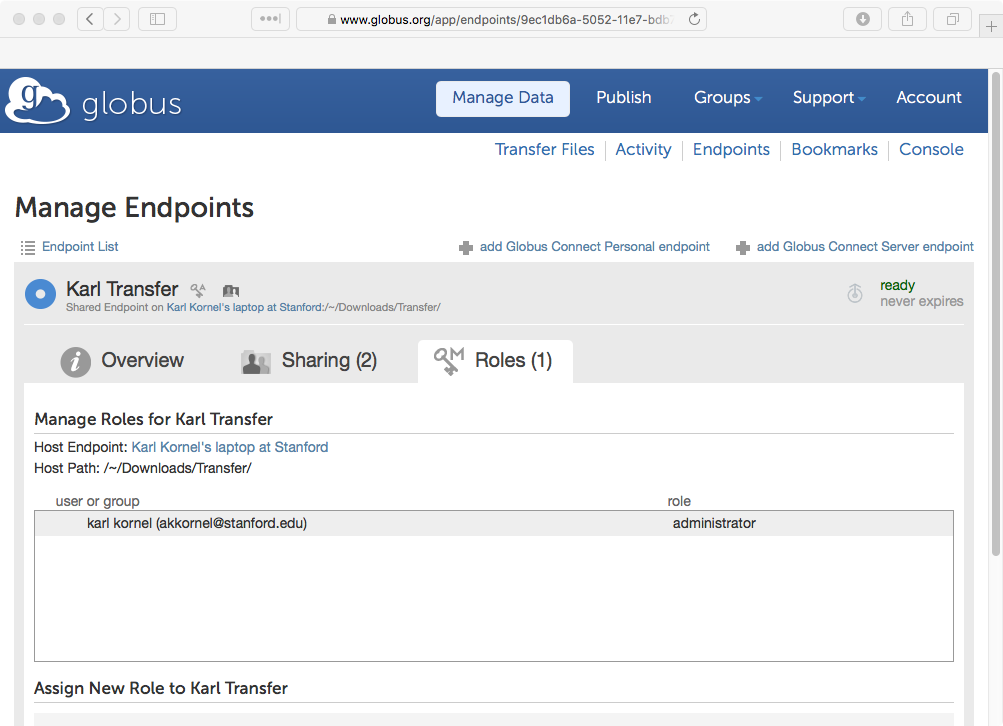
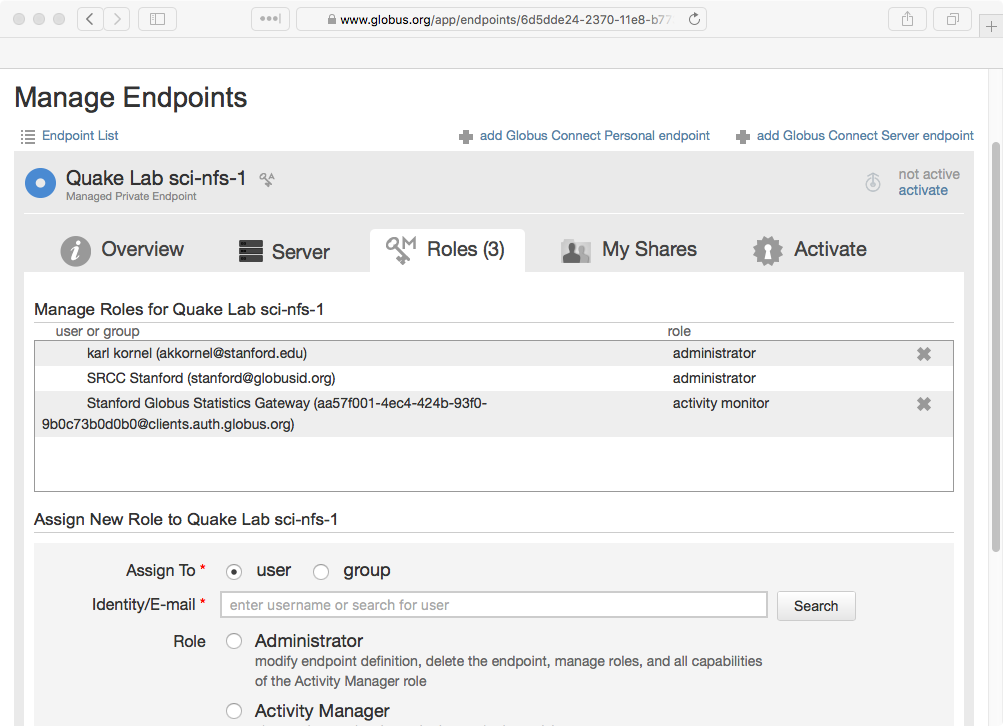
The Finish Configuration page!

diff --git a/server/finish.md b/server/finish.md
@@ -1,0 +1,300 @@
+---
+layout:      left-sidebar
+title:       Globus Connect Server Final Configuration
+title_line:  false
+description: Finish your Globus Connect Server Installation
+---
+
+# Finishing Configuration
+
+Now that Globus Connect Server is running, some final endpoint configuraion
+must be performed on the [Globus web site](https://www.globus.org/app).  
+
+{% include info-box.html
+   icon="asterisk"
+   header="Log in with the Globus ID"
+   content="Since we are performing endpoint configuration, you will need to log in using the same Globus ID and password that you used during endpoint setup.  If you are using one of the common Globus IDs, talk to the owner of the Globus ID, who will work with you to finish configuration."
+%}
+
+Log in, and go to the Endpoints page.
+
+{% include hero-image.html
+   src="assets/server/Recent Endpoints.png"
+   alt="The list of recently-used endpoints."
+   caption-overlay=true
+   caption-header="Recently-Used Endpoints"
+   caption-text=""
+%}
+
+When you reach the Endpoints page, at the top of the list of endpoints, click
+on _administered by me_.  The list of endpoints will switch to show endpoints
+administered by your Globus ID.
+
+{% include hero-image.html
+   src="assets/server/Administered Endpoints.png"
+   alt="The list of endpoints which you administer."
+   caption-overlay=true
+   caption-header="Endpoints You Administer"
+   caption-text=""
+%}
+
+Your newly-created endpoint will appear.  Click on the endpoint's name, and you
+will be taken to the Endpoint Overview page.
+
+## Endpoint Overview
+
+Click on the _Edit Attributes_ button, so that you can fill in the missing
+endpoint information.
+
+{% include hero-image.html
+   src="assets/server/Endpoint Information Editable.png"
+   alt="A list of endpoint attributes, with information already filled in."
+   caption-overlay=true
+   caption-header="Endpoint Information"
+   caption-text=""
+%}
+
+All of the fields should be filled in.  Here are some guidelines:
+
+* The _display name_ should contain a clear indication of the endpoint's
+  purpose.  In the example above, this is a file server, and so the display
+  name includes the lab name and file server name.
+
+* The _description_ should contain a more-detailed description of the
+  endpoint's purpose.
+
+* The _keywords_ should contain at least two items: `stanford`, and your lab's
+  name.
+
+* The _endpoint info link_ should contain one of the following (ranked from
+  most preferred to least preferred):
+
+  1. A link to a web page containing information on the specific endpoint, or
+     the data provided by the endpoint.
+
+  2. A link to your group's web page.
+
+  3. A link to your department or school's web page.
+
+* The _contact_ email is a mailing list for your lab, or the email address of
+  someone responsible for the endpoint.  A helpdesk or ticketing system email
+  address is also appropriate.
+
+* The _organization_ must be `Stanford University`, assuming you are using
+  Stanford's campus subscription.
+
+* The _department_ must be your lab's or group's name.
+
+* The _other contact info_ should be your lab's or group's mailing address.
+
+* _Force encryption_ must be set to `Yes` if either of these two conditions
+  are true:
+
+  1. When you did your [initial configuration]({{ "server/configure.html" |
+     relative_url }}), you had set `RequireEncryption` to `True`; or…
+
+  2. Your endpoint has access to Medium Risk data.
+
+  If none of the above conditions are met, then you can set this to `Yes` if
+  you wish.
+
+* _Managed endpoint_ must be set to `Yes`.  This ensures subscription-only
+  features are available (even if you decide not to use them).
+
+&nbsp;
+
+{% include info-box.html
+   icon="exclamation-circle"
+   header="Some settings must not be changed"
+   content="The <em>Visibility</em>, <em>Default Directory</em>, and <em>Legacy Name</em> settings <b>must not be changed</b> on the web site, or they will be overwritten when you next run globus-connect-server-setup on your endpoint.  If you need to change them, change them on your endpoint."
+%}
+
+Once you have filled in your endpoint's information, save changes and go to the _Server_ tab.
+
+## Server
+
+The _Server_ tab contains information on how users are authenticated, server
+location & performance, and server connection details.
+
+{% include hero-image.html
+   src="assets/server/Endpoint Server.png"
+   alt="An endpoint's server information tab."
+   caption-overlay=true
+   caption-header="Endpoint Server Information"
+   caption-text="Authenticaion, locaion, performance, and connection details."
+%}
+
+The first section, _Identity Provider_, tells Globus how users authenticate.
+You should make sure the values are correct:
+
+* If you are using [CILogon authentication]({{ "server/cilogon.html" |
+  relative_url}}), the _type_ should be `MyProxy OAuth` and the _host_ should
+  be `cilogon.org`.
+
+* If you are using [MyProxy OAuth]({{ "server/oauth.html" | relative_url }})
+  authentication, the _type_ should be `MyProxy OAuth` and the _host_ should be
+  the fully-qualified domain name of your endpoint.
+
+* If you are using [legacy MyProxy]({{ "server/myproxy.html" | relative_url }})
+  authentication, the _type_ should be `MyProxy`, the _host_ should be the
+  fully-qualified domain name of your endpoint, and the _dn_ should be
+  something that starts with `/C=US/O=Globus Consortium/`.
+
+From time to time, `globus-connect-server-setup` fails to set the legacy
+MyProxy DN correctly.  If the _host_ is correct but the _dn_ is empty, you can
+set it yourself.  Use the following command to obtain the correct string to
+set:
+
+```
+[root@scigc-xfs-2 ~]# openssl x509 -noout -subject -in /var/lib/globus-connect-server/grid-security/hostcert.pem
+subject= /C=US/O=Globus Consortium/OU=Globus Connect Service/CN=8075a01e-236b-11e8-b773-0ac6873fc732
+```
+
+Next, skip to the third section, _Server_.  There should be one server entry.
+
+The URI of the server should use the scheme `gsiftp`, the port number `2811`,
+and your server's fully-qualified domain name.  The _subject dn_ should also be
+set.  If it is missing, you can use the `openssl x509` command from above to
+obtain the correct value.
+
+{% include info-box.html
+   icon="list-ul"
+   header="Settings still missing?"
+   content="If the _Server_ or _Identity Provider_ settings are wrong, you can also try fixing them by re-running the `globus-connect-server-setup` command.  If you still have issues, then you should reach out to Support."
+%}
+
+To finish this tab, go up to the second section, contains the _Network Use_
+settings.  Click on the section's _edit_ link, and change the location to
+`37.43,-122.17`.  Globus uses the general location of each endpoint influences
+amount of parallelism: As endpoints grow farther apart, transfers between
+endpoints are split into more pieces, to be transferred simultaneously.
+
+{% include info-box.html
+   icon="globe"
+   header="Where on campus is that?"
+   content="That is supposed to be the latitude/longitude of the Stanford clock tower, but limited precision places the marker close to the Oval."
+%}
+
+Before saving changes, you should also set the appropriate value in the
+_Network Use_ dropdown.  Here is a basic guide to follow:
+
+* If your endpoint system is only used for data transfers, and has at least 1
+  Gigabit of bandwidth to the core network, set this to `aggressive`.
+
+* If your endpoint system is also used by end users, or you aren't sure about
+  bandwidth from your endpoint to the core, set this to `normal`.
+
+* If your endpoint system is also used by end users, and they are complaining
+  about slow access to disk, change this to `minimal`.
+
+{% include info-box.html
+   icon="fast-forward"
+   header="Still too slow?"
+   content="If your endpoint has queued transfers, is using a 10G link for data transfer, and does not appear bottlenecked by CPU or access to disk, then you should set custom network-use numbers, using the aggressive setting as a starting point."
+%}
+
+Save changes, and go to the _Roles_ tab.
+
+## Roles
+
+The _Roles_ tab shows all of the accounts which have special access to your
+endpoint.
+
+{% include hero-image.html
+   src="assets/server/Endpoint Roles.png"
+   alt="An endpoint's roles tab, showing two accounts which have administrator access, and one account which has 'activity monitor' access."
+   caption-overlay=true
+   caption-header="Endpoint Roles"
+   caption-text="Authenticaion, locaion, performance, and connection details."
+%}
+
+When your endpoint was first created, your Globus ID was added as an
+administrator.  You should now give elevated access to at least two more
+accounts:
+
+* Add yourself as an Administrator.  You should be able to find yourself by
+  entering your `sunetid@stanford.edu`.
+
+* Add team members as Administrators.
+
+* Add the address
+  `aa57f001-4ec4-424b-93f0-9b0c73b0d0b0@clients.auth.globus.org` as an
+  "Activity Monitor".  This account is used by a program—run by
+  [SRCC](https://srcc.stanford.edu/)—which collects usage information.  Giving
+  access for usage data collection is a condition of getting access to the
+  campus Globus subscription.
+
+Role changes take effect immediately, so there is no need to explicitly save
+your changes here.
+
+# Test!
+
+At this point, Globus Connect Server configuration has been completed.  You
+should now launch a second browser, log in to the Globus web site as yourself,
+and perform some tests:
+
+* You should be able to access the endpoint, and your default directory should
+  return a directory listing.
+
+* Test that access permissions hold:
+
+  * If you have set the `RestrictPaths` setting on the endpoint, make sure you
+    can list the contents of all of the allowed directories.  Also, make sure
+    that disallowed directories can not be listed.
+
+  * If you left `RestrictPaths` empty, make sure you can list the contents of
+    directories that you can normally access, like your home directory, and
+    `/tmp`.  Also try to list a restricted directory (like `/root`), and make
+    sure it fails.
+
+* Perform some data transfers _from_ your endpoint:
+
+  * If you have set the `RestrictPaths` setting on the endpoint, you should
+    test all of the paths that are allowed.
+
+  * If you left `RestrictPaths` empty, perform test transfers from some
+    directories that you have access to.
+
+  When performing these transfer tests, you can send data to a [Globus Connect
+  Personal endpoint]({{ "client.html" | relative_url }}) on your local system,
+  or to another endpoint where you have write access.
+
+* Perform some data transfers _to_ your endpoint.
+
+  This step only applies if permissions (OS permissions, and the
+  `RestrictPaths` setting) allow writing to the endpoint.
+
+  * If you have set the `RestrictPaths` setting on the endpoint, you should
+    test all of the paths that are allowed.
+
+  * If you left `RestrictPaths` empty, perform test transfers from some
+    directories that you have access to.
+
+  When performing these transfer tests, you should use the `esnet#sunn-dtn`
+  endpoint as the source of the transfer.  This endpoint is run by
+  [ESnet](https://fasterdata.es.net/performance-testing/DTNs/) and is hosted in
+  Sunnyvale, close to one of Stanford's network links to the outside world.  It
+  will happily saturate your endpoint's network connection.
+
+* If you have enabled sharing, make sure that you can create a shared endpoint.
+
+  * If you set `SharingRestrictPaths`, then make sure you can create a shared
+    endpoint on each allowed path.  Also, make sure sharing of a disallowed
+    path is blocked.
+
+  * If you left `SharingRestrictPaths` un-set, then simply try sharing a
+    directory that you are otherwise allowed to access.
+
+* If you have enabled sharing, perform a few transfer tests both _from_ and
+  _to_ your shared endpoint.
+
+If you encounter issues which you cannot resolve yourself, then you
+should reach out to [Support]({{ "support.html" | relative_url }}).
+
+**Congratulations, you have reached the end of the Server setup pages!**  We,
+SRCC, the contributors to this site, and other Stanford Globus users hope that
+you will make good use of your new endpoint.
+
+{% include left-sidebar/transition.md %}
+
+{% include toc.html id="server" %}
